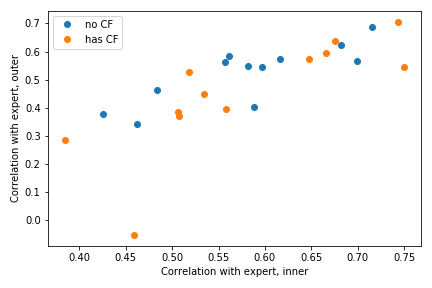
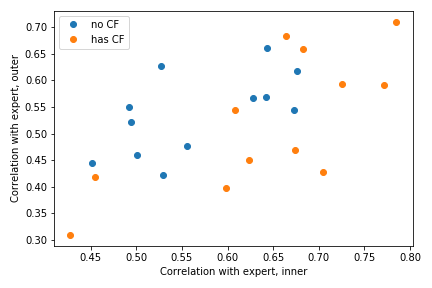
Fixed scatter_correlation_subject

diff --git a/combine.py b/combine.py
@@ -45,6 +45,8 @@ def get_task_random(df_task, df_res):
 
     for task_id in df_task['task_id']:
       
+        
+        
         task_results = df_res.loc[df_res['task_id'] == task_id]
                 
         if len(task_results)>0:
@@ -73,12 +75,11 @@ def get_task_random(df_task, df_res):
         task_list.append(task_dict)
        
 
-    df_task = pd.DataFrame(task_list)
-    #print('nans ' + str(nancount))
-   
-    return df_task
-
-
+    df_task_combined = pd.DataFrame(task_list)
+    df_task_combined = pd.merge(df_task_combined, df_task, on='task_id', how='outer')    
+           
+    return df_task_combined
+    
 
 #Combine all the results for a task with median combining
 def get_task_median(df_task, df_res):
@@ -86,6 +87,10 @@ def get_task_median(df_task, df_res):
     task_list = []
 
     for task_id in df_task['task_id']:
+        
+        subject_id = df_task['subject_id'].to_numpy()[0]
+        airway_id = df_task['airway_id'].to_numpy()[0]
+        
       
         task_results = df_res.loc[df_res['task_id'] == task_id]
        
@@ -103,12 +108,10 @@ def get_task_median(df_task, df_res):
         task_list.append(task_dict)
        
 
-    df_task = pd.DataFrame(task_list)
-    
-    
-    #df_task = pd.merge(df_task, df_truth, on='task_id', how='outer')    
+    df_task_combined = pd.DataFrame(task_list)
+    df_task_combined = pd.merge(df_task_combined, df_task, on='task_id', how='outer')    
            
-    return df_task
+    return df_task_combined
 
 
 
@@ -119,8 +122,8 @@ def get_task_best(df_task, df_res_valid, df_truth):
 
 
     for task_id in df_task['task_id']:
-      
-        
+       
+       
         task_results = df_res_valid.loc[df_res_valid['task_id'] == task_id]
        
         

diff --git a/analyze.py b/analyze.py
@@ -229,19 +229,23 @@ def plot_correlation_valid(df_task_combined, df_truth, combine_type):
     
 
 
-def get_subject_correlation(df_subject, df_task_combined, combine_type=''):
+def get_subject_correlation(df_subject, df_task_combined, df_truth, combine_type=''):
 
+    
+    cols_to_use = ['task_id', 'inner1', 'outer1', 'wap1', 'wtr1']
+    
+    df_task_combined = pd.merge(df_task_combined, df_truth[cols_to_use], on='task_id', how='outer')
+ 
+         
     key = '_' + combine_type
    
-    subject_ids = df_task_combined['subject_id'].unique()
+    subject_ids = df_subject['subject_id'].unique()
     corr_list = []
     
     for idx, subject_id in enumerate(subject_ids):
     
         subject_tasks = df_task_combined.loc[df_task_combined['subject_id'] == subject_id]
-        
-        print(subject_tasks.head())
-    
+           
         n = len(subject_tasks['subject_id'])
         inner1_inner = subject_tasks['inner1'].corr(subject_tasks['inner' + key])
         outer1_outer = subject_tasks['outer1'].corr(subject_tasks['outer' + key])
@@ -267,11 +271,13 @@ def get_subject_correlation(df_subject, df_task_combined, combine_type=''):
 
     
 #Scatter correlations per subject, while displaying subject characteristics
-def scatter_subject_correlation(df_subject, df_task_combined, combine_type):
+def scatter_subject_correlation(df_subject, df_task_combined, df_truth, combine_type):
   
-    df_corr = get_subject_correlation(df_subject, df_task_combined, combine_type)
+        
+    df_corr = get_subject_correlation(df_subject, df_task_combined, df_truth, combine_type)
     df_corr = pd.merge(df_corr, df_subject, on='subject_id', how='outer')
  
+    
     
     groups = df_corr.groupby('has_cf')
     

diff --git a/main.py b/main.py
@@ -68,11 +68,11 @@ def temp():
     
     
     
-    df_task_random = crowdcombine.get_task_random(df_task, df_res_valid)
+    #df_task_random = crowdcombine.get_task_random(df_task, df_res_valid)
     df_task_median = crowdcombine.get_task_median(df_task, df_res_valid)
-    df_task_best = crowdcombine.get_task_best(df_task, df_res_valid, df_truth)
+    #df_task_best = crowdcombine.get_task_best(df_task, df_res_valid, df_truth)
    
-    crowdanalyze.scatter_subject_correlation(df_subject, df_task_median, 'median')
+    crowdanalyze.scatter_subject_correlation(df_subject, df_task_median, df_truth, 'median')
 
     
     
